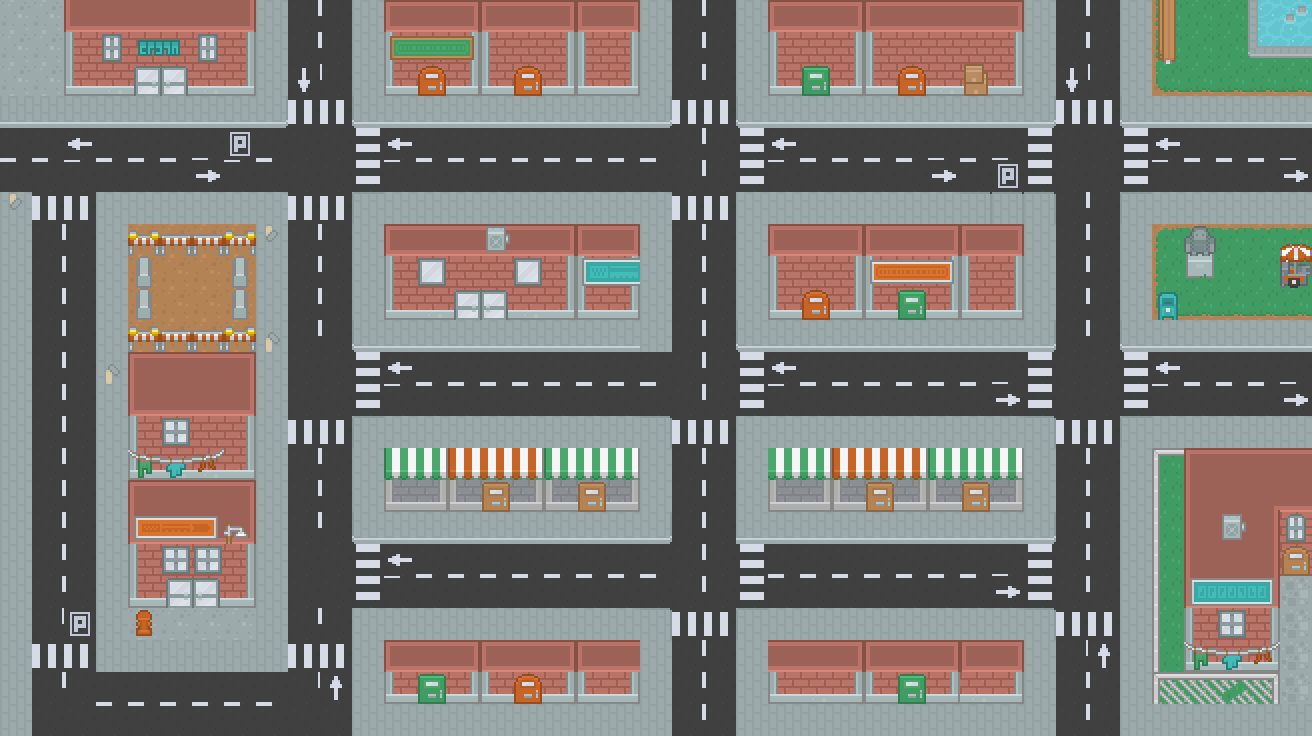
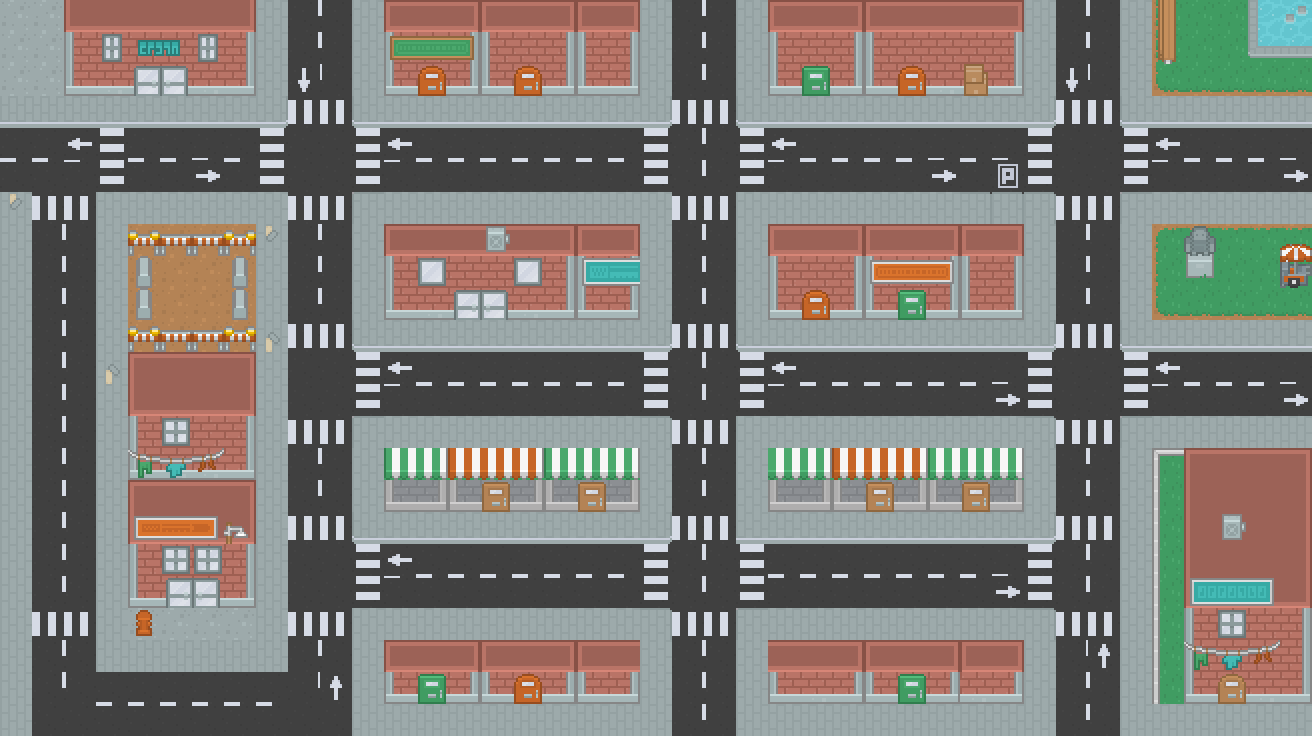
Cartas legit y portales WIP

diff --git a/src/proyecto/Micro.java b/src/proyecto/Micro.java
@@ -3,6 +3,7 @@ package proyecto;
 import java.awt.Point;
 import java.util.ArrayList;
 import java.util.TimerTask;
+import javax.swing.JOptionPane;
 
 public class Micro extends TimerTask implements Constantes {
 
@@ -24,7 +25,6 @@ public class Micro extends TimerTask implements Constantes {
             xp.x--;
             pasajeros.add(new Peaton(laberinto, xp, p1, yp));
         }
-        laberinto.repaint();
     }
 
     private void moverMicro() {
@@ -45,6 +45,7 @@ public class Micro extends TimerTask implements Constantes {
                 moverArriba();
             }
         }
+
     }
 
     private void moverAbajo() {
@@ -52,10 +53,18 @@ public class Micro extends TimerTask implements Constantes {
             char t = celdaMovimiento.tipoCelda;
             celdaMovimiento.tipoCelda = laberinto.celdas[celdaMovimiento.x][celdaMovimiento.y + 1].tipoCelda;
             laberinto.celdas[celdaMovimiento.x][celdaMovimiento.y].tipoCelda = t;
-
             celdaMovimiento.y = celdaMovimiento.y + 1;
             laberinto.celdas[celdaMovimiento.x][celdaMovimiento.y].tipoCelda = MICRO;
-
+            if (esParada(celdaMovimiento.x, celdaMovimiento.y + 1)) {
+                System.out.println("PASO POR PARADA");
+                if (pasajeros.size() <= 0) {
+                    //JOptionPane.showMessageDialog(null, "TODOS LOS PEATONES HAN SIDO DEJADOS");
+                } else {
+                    //JOptionPane.showMessageDialog(null, "Peaton ha sido dejado en la parada");
+                    pasajeros.get(pasajeros.size() - 1).serCalleAbajo();
+                    pasajeros.remove(pasajeros.get(pasajeros.size() - 1));
+                }
+            }
         }
     }
 
@@ -66,20 +75,36 @@ public class Micro extends TimerTask implements Constantes {
             laberinto.celdas[celdaMovimiento.x][celdaMovimiento.y].tipoCelda = t;
             celdaMovimiento.x = celdaMovimiento.x + 1;
             laberinto.celdas[celdaMovimiento.x][celdaMovimiento.y].tipoCelda = MICRO;
-
+            if (esParada(celdaMovimiento.x + 1, celdaMovimiento.y)) {
+                System.out.println("PASO POR PARADA");
+                if (pasajeros.size() <= 0) {
+                    //JOptionPane.showMessageDialog(null, "TODOS LOS PEATONES HAN SIDO DEJADOS");
+                } else {
+                    //JOptionPane.showMessageDialog(null, "Peaton ha sido dejado en la parada");
+                    pasajeros.get(pasajeros.size() - 1).serCalleAbajo();
+                    pasajeros.remove(pasajeros.get(pasajeros.size() - 1));
+                }
+            }
         }
     }
 
     private void moverIzquierda() {
         if (celdaMovimiento.x > 0 && noHayPersona(celdaMovimiento.x - 1, celdaMovimiento.y)) {
-
             char t = celdaMovimiento.tipoCelda;
             celdaMovimiento.tipoCelda = laberinto.celdas[celdaMovimiento.x - 1][celdaMovimiento.y].tipoCelda;
             laberinto.celdas[celdaMovimiento.x][celdaMovimiento.y].tipoCelda = t;
-
             celdaMovimiento.x = celdaMovimiento.x - 1;
             laberinto.celdas[celdaMovimiento.x][celdaMovimiento.y].tipoCelda = MICRO;
-
+            if (esParada(celdaMovimiento.x - 1, celdaMovimiento.y)) {
+                JOptionPane.showMessageDialog(null, "TODOS LOS PEATONES HAN SIDO DEJADOS");
+                if (pasajeros.size() <= 0) {
+                    //System.out.println("TODOS LOS PEATONES HAN SIDO DEJADOS");
+                } else {
+                    //JOptionPane.showMessageDialog(null, "Peaton ha sido dejado en la parada");
+                    pasajeros.get(pasajeros.size() - 1).serCalleAbajo();
+                    pasajeros.remove(pasajeros.get(pasajeros.size() - 1));
+                }
+            }
         }
     }
 
@@ -87,12 +112,19 @@ public class Micro extends TimerTask implements Constantes {
         if (celdaMovimiento.y > 0 && noHayPersona(celdaMovimiento.x, celdaMovimiento.y - 1)) {
             char t = celdaMovimiento.tipoCelda;
             celdaMovimiento.tipoCelda = laberinto.celdas[celdaMovimiento.x][celdaMovimiento.y - 1].tipoCelda;
-
             laberinto.celdas[celdaMovimiento.x][celdaMovimiento.y].tipoCelda = t;
-
             celdaMovimiento.y = celdaMovimiento.y - 1;
             laberinto.celdas[celdaMovimiento.x][celdaMovimiento.y].tipoCelda = MICRO;
-
+            if (esParada(celdaMovimiento.x, celdaMovimiento.y - 1)) {
+                System.out.println("PASO POR PARADA");
+                if (pasajeros.size() <= 0) {
+                    //JOptionPane.showMessageDialog(null, "TODOS LOS PEATONES HAN SIDO DEJADOS");
+                } else {
+                    //JOptionPane.showMessageDialog(null, "Peaton ha sido dejado en la parada");
+                    pasajeros.get(pasajeros.size() - 1).serCalleAbajo();
+                    pasajeros.remove(pasajeros.get(pasajeros.size() - 1));
+                }
+            }
         }
     }
 
@@ -103,7 +135,7 @@ public class Micro extends TimerTask implements Constantes {
         moverMicro();
         laberinto.lienzoPadre.repaint();
         laberinto.lienzoPadre.validate();
-        for (int i = 0; i < NPEATONES; i++) {
+        for (int i = 0; i < pasajeros.size(); i++) {
             pasajeros.get(i).moverPeaton();
         }
     }
@@ -115,5 +147,9 @@ public class Micro extends TimerTask implements Constantes {
                 && laberinto.celdas[x][y].tipoCelda != MICRO
                 && laberinto.celdas[x][y].tipoCelda != CARTA;
 
+    }
+
+    private boolean esParada(int x, int y) {
+        return laberinto.celdas[x][y].tipoCelda == PARADA;
     }
 }

diff --git a/src/proyecto/Jugador.java b/src/proyecto/Jugador.java
@@ -12,8 +12,7 @@ public class Jugador implements Constantes {
     public Laberinto laberinto;
     public Celda jugador, celdaMovimiento;
     public BusquedaAnchura inteligencia;
-    public Point p1, p2, p3, p4;
-    public ArrayList<Carta> cartas = new ArrayList<>();
+    public static int nCartas;
 
     public Jugador(Laberinto laberinto, int x, int y) {
         this.laberinto = laberinto;
@@ -21,13 +20,7 @@ public class Jugador implements Constantes {
         jugador = new Celda(x, y, JUGADOR);
         laberinto.celdas[jugador.x][jugador.y].tipoCelda = JUGADOR;
         inteligencia = new BusquedaAnchura(laberinto, this);
-
-        Point p1 = new Point(jugador.x, jugador.y - 1);
-        for (int i = 0; i < NCARTAS; i++) {
-            p1.x--;
-            cartas.add(new Carta(laberinto, p1));
-        }
-        laberinto.repaint();
+        nCartas = NCARTAS;
     }
 
     void moverCelda(KeyEvent evento) {
@@ -54,9 +47,6 @@ public class Jugador implements Constantes {
     public boolean moverCeldaArriba() {
         if (jugador.y > 0) {
             if (noHayPared(jugador.x, jugador.y - 1) && noVieneVehiculo(jugador.x, jugador.y, 'U')) {
-                for (int i = 0; i < NCARTAS; i++) {
-                    cartas.get(i).moverCarta('U');
-                }
                 avanzar(jugador.x, jugador.y - 1, 'U');
                 return true;
             }
@@ -67,9 +57,6 @@ public class Jugador implements Constantes {
     public boolean moverCeldaAbajo() {
         if (jugador.y + 1 < N_CELDAS_ALTO) {
             if (noHayPared(jugador.x, jugador.y + 1) && noVieneVehiculo(jugador.x, jugador.y, 'D')) {
-                for (int i = 0; i < NCARTAS; i++) {
-                    cartas.get(i).moverCarta('D');
-                }
                 avanzar(jugador.x, jugador.y + 1, 'D');
                 return true;
             }
@@ -80,9 +67,6 @@ public class Jugador implements Constantes {
     public boolean moverCeldaIzquierda() {
         if (jugador.x > 0) {
             if (noHayPared(jugador.x - 1, jugador.y) && noVieneVehiculo(jugador.x, jugador.y, 'L')) {
-                for (int i = 0; i < NCARTAS; i++) {
-                    cartas.get(i).moverCarta('L');
-                }
                 avanzar(jugador.x - 1, jugador.y, 'L');
                 return true;
             }
@@ -93,9 +77,6 @@ public class Jugador implements Constantes {
     public boolean moverCeldaDerecha() {
         if (jugador.x + 1 < N_CELDAS_ANCHO) {
             if (noHayPared(jugador.x + 1, jugador.y) && noVieneVehiculo(jugador.x, jugador.y, 'R')) {
-                for (int i = 0; i < NCARTAS; i++) {
-                    cartas.get(i).moverCarta('R');
-                }
                 avanzar(jugador.x + 1, jugador.y, 'R');
                 return true;
             }
@@ -108,6 +89,10 @@ public class Jugador implements Constantes {
                 && laberinto.celdas[x][y].tipoCelda != VEHICULO
                 && laberinto.celdas[x][y].tipoCelda != PEATON
                 && laberinto.celdas[x][y].tipoCelda != MICRO;
+    }
+
+    public boolean esPortal(int x, int y) {
+        return laberinto.celdas[x][y].tipoCelda == PORTAL;
     }
 
     private boolean noVieneVehiculo(int x, int y, char mov) {
@@ -174,8 +159,7 @@ public class Jugador implements Constantes {
         laberinto.lienzoPadre.repaint();
         laberinto.lienzoPadre.validate();
         char temp;
-
-        System.out.println(x + " " + y);
+        System.out.println(x + " " + y + " Cartas: " + nCartas);
         switch (mov) {
             case 'D':
                 temp = celdaMovimiento.tipoCelda;
@@ -186,6 +170,9 @@ public class Jugador implements Constantes {
                 laberinto.celdas[jugador.x][jugador.y].indexSprite = 0;
                 break;
             case 'U':
+                if (esPortal(jugador.x, jugador.y - 1)) {
+                    nCartas--;
+                }
                 temp = celdaMovimiento.tipoCelda;
                 celdaMovimiento.tipoCelda = laberinto.celdas[x][y].tipoCelda;
                 laberinto.celdas[x][y + 1].tipoCelda = temp;
@@ -195,7 +182,6 @@ public class Jugador implements Constantes {
                 break;
             case 'R':
                 temp = celdaMovimiento.tipoCelda;
-
                 celdaMovimiento.tipoCelda = laberinto.celdas[x][y].tipoCelda;
                 laberinto.celdas[x - 1][y].tipoCelda = temp;
                 laberinto.celdas[x][y].tipoCelda = JUGADOR;

diff --git a/src/proyecto/Celda.java b/src/proyecto/Celda.java
@@ -20,6 +20,7 @@ public class Celda extends JComponent implements Constantes {
     //nuevos atributos para manejar imagenes
     public BufferedImage jugador, obstaculo, camino, vehiculo, portal,
             edificio, acera, carretera, peaton, micro, carta;
+    public Jugador j;
 
     //constructor, inicializa los atributos
     public Celda(int x, int y, char tipo) {
@@ -52,10 +53,13 @@ public class Celda extends JComponent implements Constantes {
         switch (tipoCelda) {
             case JUGADOR:
                 g.drawImage(spriteJugador[indexSprite], x, y, null);
+                for (int i = 0; i < Jugador.nCartas; i++) {
+                    g.drawImage(carta, x - 25 + i * 10, y - 25, this);
+                }
                 break;
             case OBSTACULO:
-                //g.setColor(COLORAMARILLO);
-                // g.fillRect(x, y, TAMANIO_CELDA, TAMANIO_CELDA);
+                g.setColor(COLORAMARILLO);
+                g.fillRect(x, y, TAMANIO_CELDA, TAMANIO_CELDA);
                 g.setColor(Color.BLACK);
                 g.drawImage(obstaculo, x, y, this);
                 g.drawString(Integer.toString(npeatones), x + 10, y + 10);
@@ -66,10 +70,6 @@ public class Celda extends JComponent implements Constantes {
                 break;
             case VEHICULO:
                 g.drawImage(spriteVehiculo[indexSprite], x, y, this);
-                break;
-            case EDIFICIO:
-                //g.setColor(COLORGRIS);
-                //g.fillRect(x, y, TAMANIO_CELDA, TAMANIO_CELDA);
                 break;
             case PEATON:
                 g.drawImage(peaton, x, y, this);
@@ -85,8 +85,9 @@ public class Celda extends JComponent implements Constantes {
             case MICRO:
                 g.drawImage(micro, x, y, this);
                 break;
-            case CARTA:
-                g.drawImage(carta, x, y, this);
+            case PARADA:
+                g.setColor(COLORGRIS);
+                g.fillRect(x, y, TAMANIO_CELDA, TAMANIO_CELDA);
                 break;
         }
     }

diff --git a/src/proyecto/Laberinto.java b/src/proyecto/Laberinto.java
@@ -42,13 +42,12 @@ public class Laberinto extends JComponent implements Constantes {
         crearPeatones(11, 21, 19, 23);
         crearEdificio(24, 32, 20, 22); //edificio8
         crearPeatones(23, 33, 19, 23);
-        crearEdificio(36, 40, 14, 22); //edificio rejas
-        crearEdificio(40, 41, 14, 18);  //puerta edificio rejas
+        crearEdificio(36, 41, 14, 22); //edificio rejas
         crearPeatones(35, 41, 13, 23);
+
         crearPeatones(35, 41, 0, 4);
         crearPeatones(35, 41, 6, 11);
 
-        crearEdificio(36, 37, 9, 10); //obs
         crearEdificio(37, 38, 7, 9); //estatua
         crearEdificio(40, 41, 8, 9); //carro
         crearEdificio(36, 37, 0, 2); //banca
@@ -81,8 +80,9 @@ public class Laberinto extends JComponent implements Constantes {
         celdas[13][21].tipoCelda = PORTAL;
         celdas[16][21].tipoCelda = PORTAL;
         celdas[28][21].tipoCelda = PORTAL;
-        celdas[40][17].tipoCelda = PORTAL;
+        celdas[38][21].tipoCelda = PORTAL;
 
+        celdas[31][5].tipoCelda = PARADA;
     }
 
     @Override

diff --git a/src/proyecto/Peaton.java b/src/proyecto/Peaton.java
@@ -51,6 +51,18 @@ public class Peaton extends TimerTask implements Constantes {
         }
     }
 
+    public void serCalleAbajo() {
+        char temp = celdaMovimiento.tipoCelda;
+        celdaMovimiento.tipoCelda = laberinto.celdas[celdaMovimiento.x][celdaMovimiento.y + 1].tipoCelda;
+        laberinto.celdas[celdaMovimiento.x][celdaMovimiento.y].tipoCelda = temp;
+    }
+
+    public void serCalleArriba() {
+        char temp = celdaMovimiento.tipoCelda;
+        celdaMovimiento.tipoCelda = laberinto.celdas[celdaMovimiento.x][celdaMovimiento.y - 1].tipoCelda;
+        laberinto.celdas[celdaMovimiento.x][celdaMovimiento.y].tipoCelda = temp;
+    }
+
     public void moverAbajo() {
         char temp = celdaMovimiento.tipoCelda;
         celdaMovimiento.tipoCelda = laberinto.celdas[celdaMovimiento.x][celdaMovimiento.y + 1].tipoCelda;

diff --git a/src/proyecto/Lienzo.java b/src/proyecto/Lienzo.java
@@ -21,7 +21,6 @@ public class Lienzo extends Canvas implements Constantes {
     public Jugador jugador;
     public Micro micro;
     public Timer lanzadorTareas;
-    public Carta carta;
     public Graphics graficoBuffer;
     public Image imagenBuffer;
 
@@ -84,7 +83,7 @@ public class Lienzo extends Canvas implements Constantes {
         lanzadorTareas.scheduleAtFixedRate(auto3, 0, 600);
         lanzadorTareas.scheduleAtFixedRate(auto4, 0, 400);
         lanzadorTareas.scheduleAtFixedRate(peaton, 0, 300);
-        lanzadorTareas.scheduleAtFixedRate(micro, 0, 1000);
+        lanzadorTareas.scheduleAtFixedRate(micro, 0, 300);
         //lanzadorTareas.scheduleAtFixedRate(jugador.inteligencia, 0, 300);
     }
 

diff --git a/src/proyecto/Portal.java b/src/proyecto/Portal.java
@@ -1,0 +1,23 @@
+/*
+ * To change this license header, choose License Headers in Project Properties.
+ * To change this template file, choose Tools | Templates
+ * and open the template in the editor.
+ */
+package proyecto;
+
+/**
+ *
+ * @author Nicoyarce
+ */
+public class Portal implements Constantes {
+
+    public Laberinto laberinto;
+    public Celda portal;
+    public int id;
+    public int nCartas;
+
+    Portal(Laberinto laberinto, int x, int y) {
+        this.laberinto = laberinto;
+        portal = new Celda(x, y, PORTAL);
+    }
+}

diff --git a/src/proyecto/Constantes.java b/src/proyecto/Constantes.java
@@ -22,10 +22,14 @@ public interface Constantes {
     public final char EDIFICIO = 'E';
     public final char PEATON = 'P';
     public final char CALLE = 'C';
+    public final char PARADA = 'D';
     public final char CARTA = 'A';
+
     public final int NPEATONES = 2;
-    public final int NCARTAS = 2;
+
     public final int NPORTALES = 2;
+
+    public final int NCARTAS = 3;
 
     public final int ALFA = 150;
     public final Color COLORGRIS = new Color(192, 192, 192, ALFA);

diff --git a/src/proyecto/Vehiculo.java b/src/proyecto/Vehiculo.java
@@ -88,7 +88,6 @@ public class Vehiculo extends TimerTask implements Constantes {
         return laberinto.celdas[x][y].tipoCelda != JUGADOR
                 && laberinto.celdas[x][y].tipoCelda != PEATON
                 && laberinto.celdas[x][y].tipoCelda != VEHICULO
-                && laberinto.celdas[x][y].tipoCelda != MICRO
-                && laberinto.celdas[x][y].tipoCelda != CARTA;
+                && laberinto.celdas[x][y].tipoCelda != MICRO;
     }
 }
